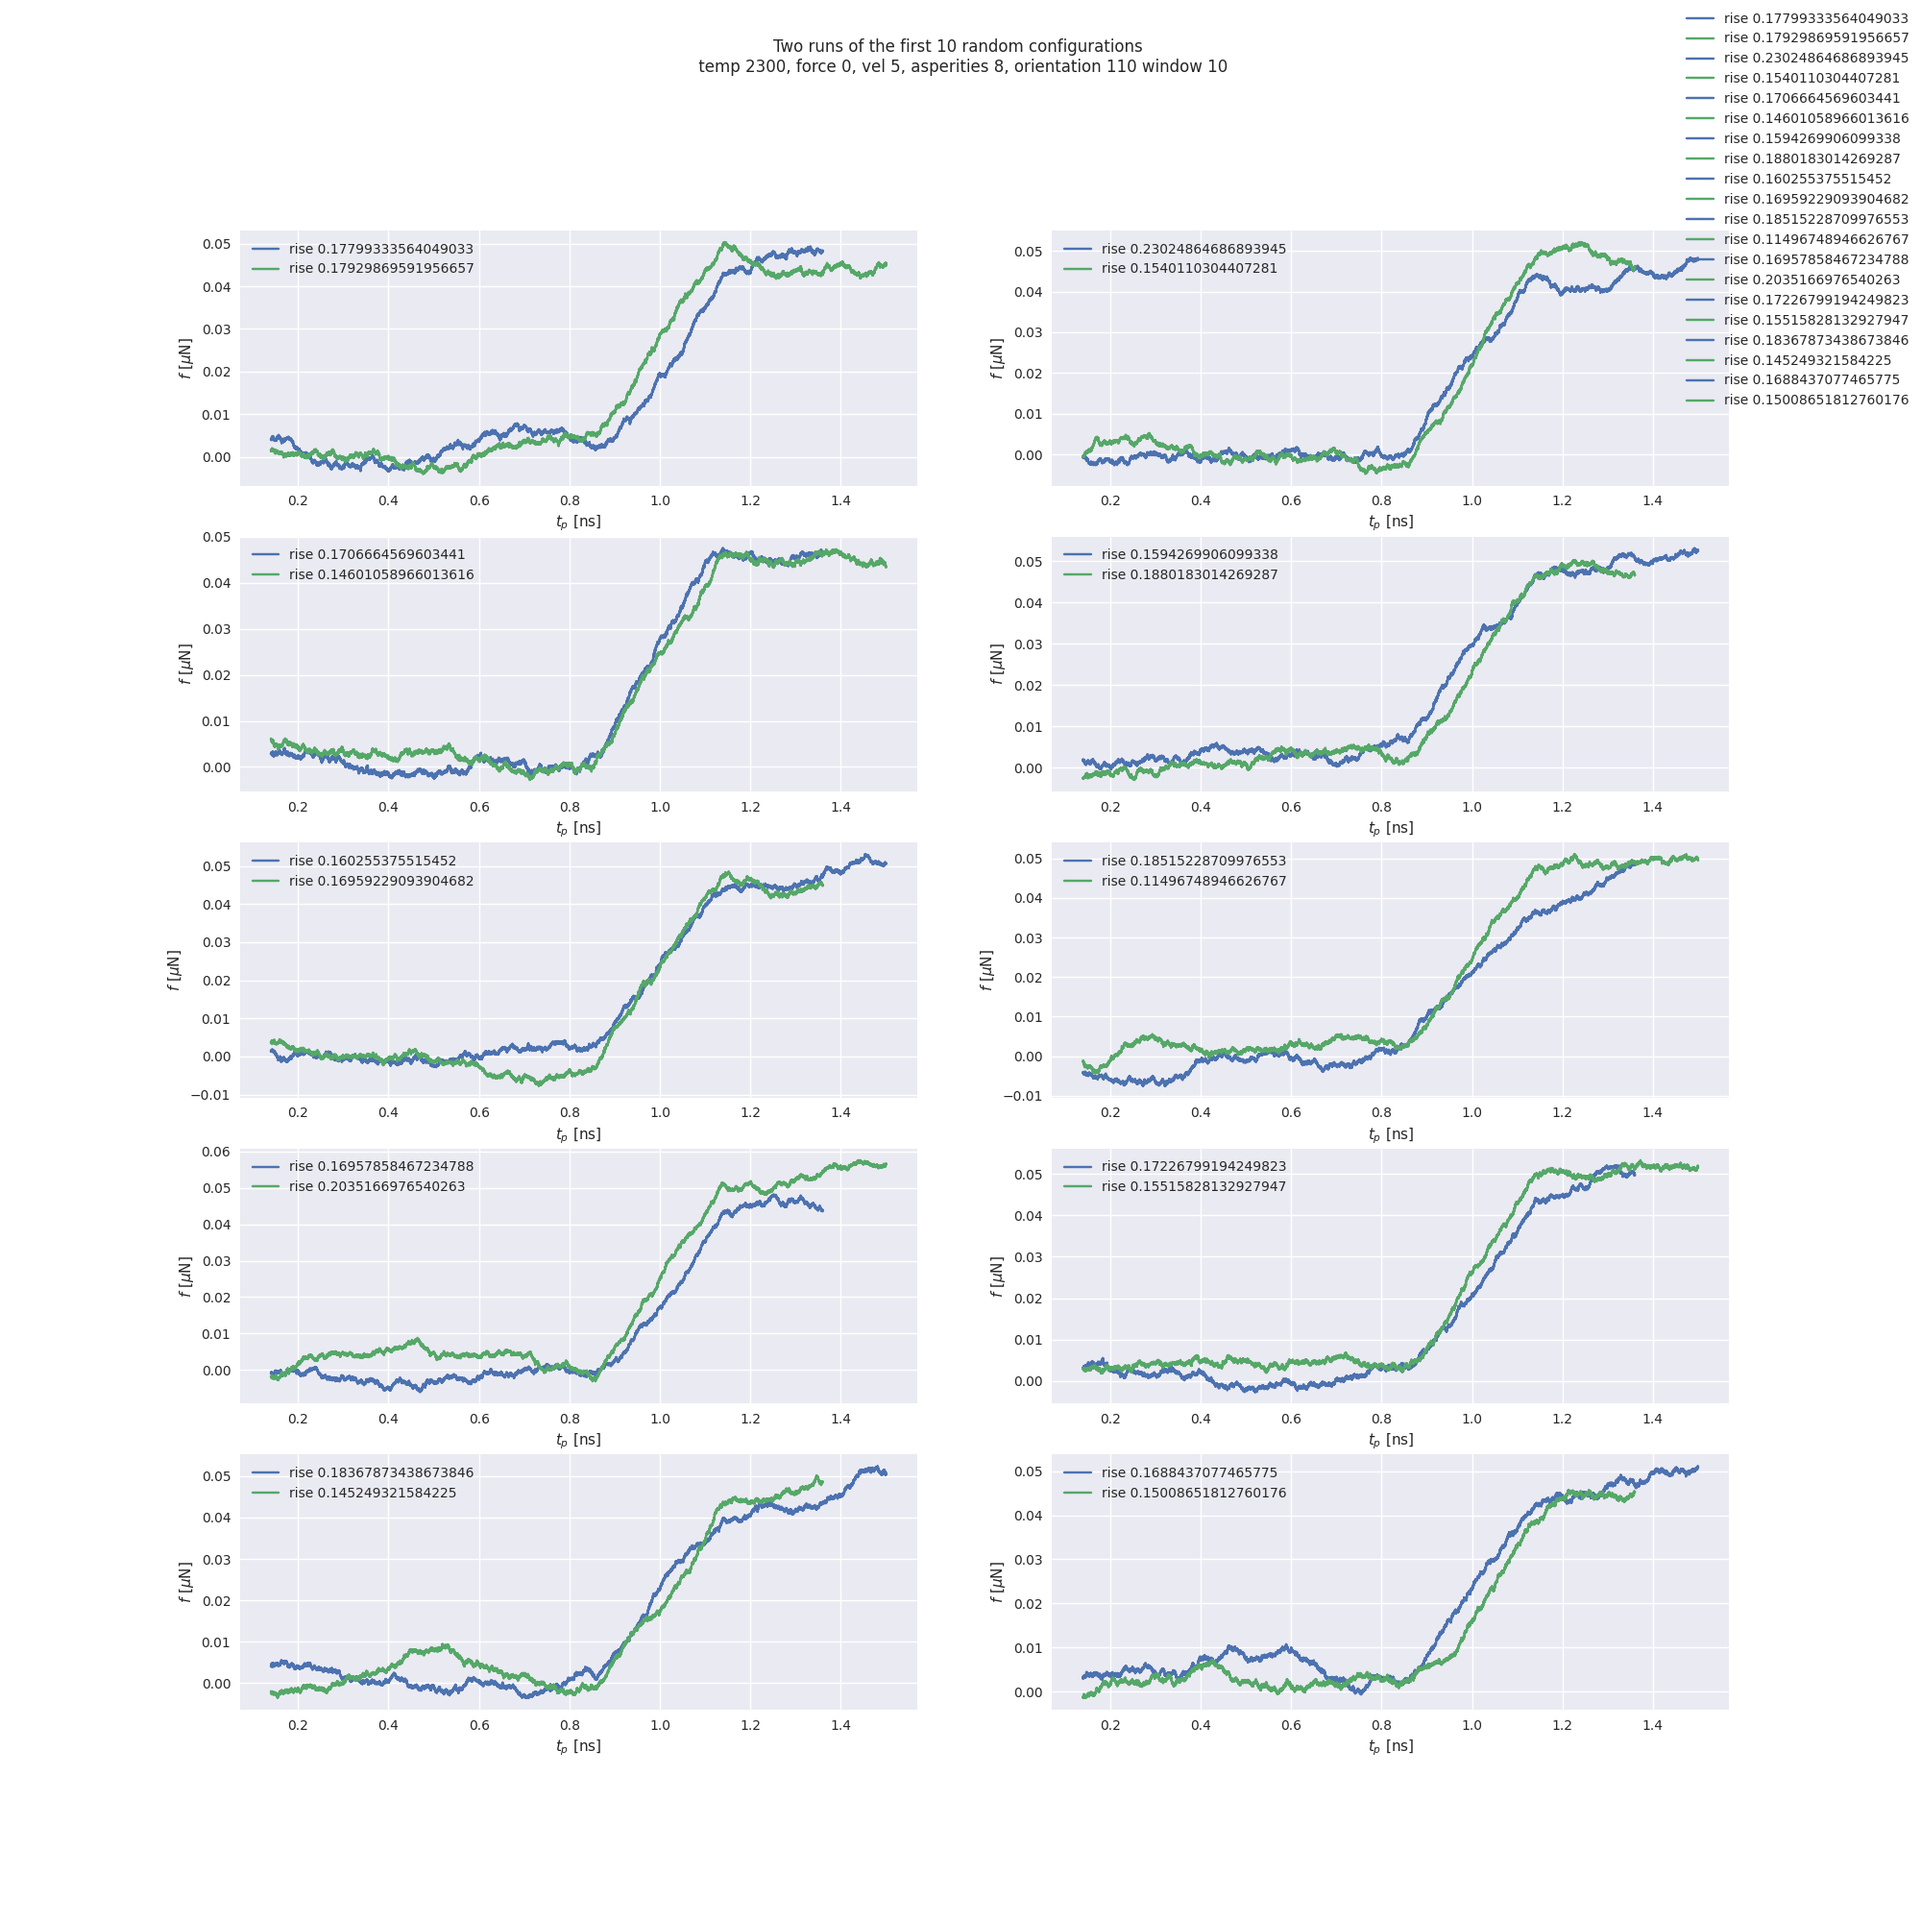
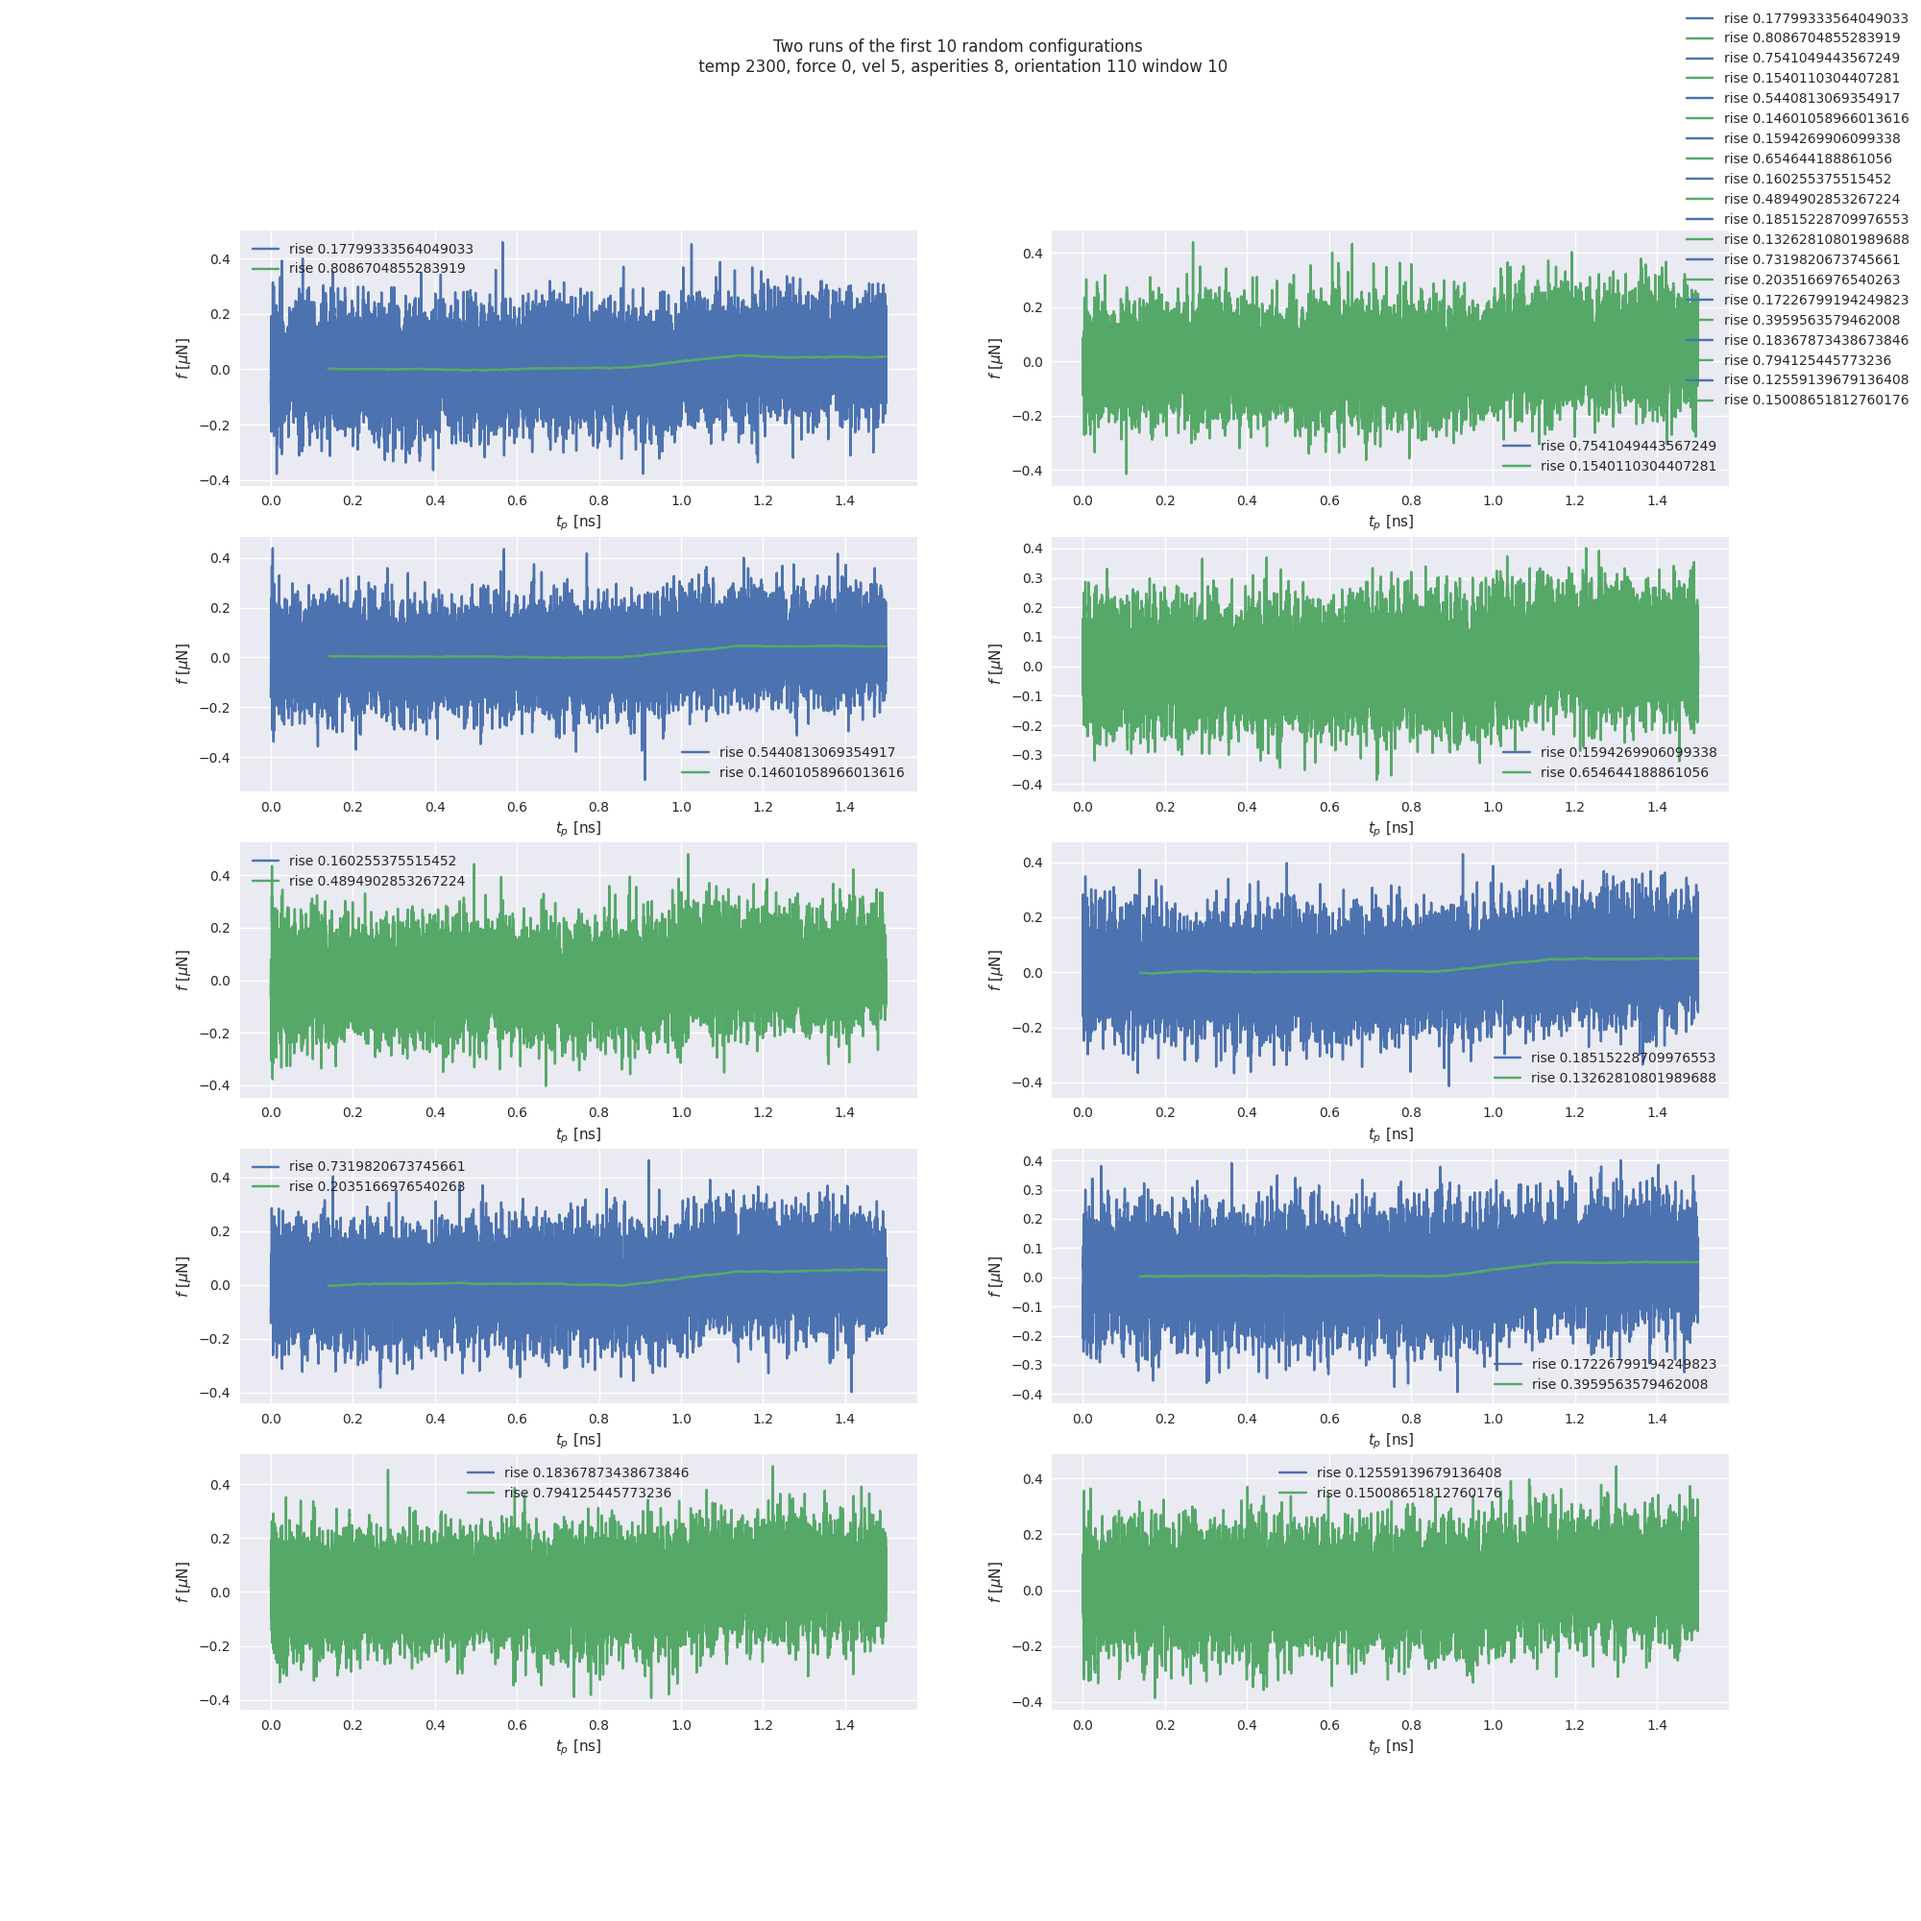
now actually window 10

diff --git a/python/post/get_load_curves.py b/python/post/get_load_curves.py
@@ -73,7 +73,7 @@ def all_curves(production = True):
     vel = 5
     time = 2000 
     orientation = 110
-    window = 7000
+    window = 10
     #initnum = 0
     force = 0
 
